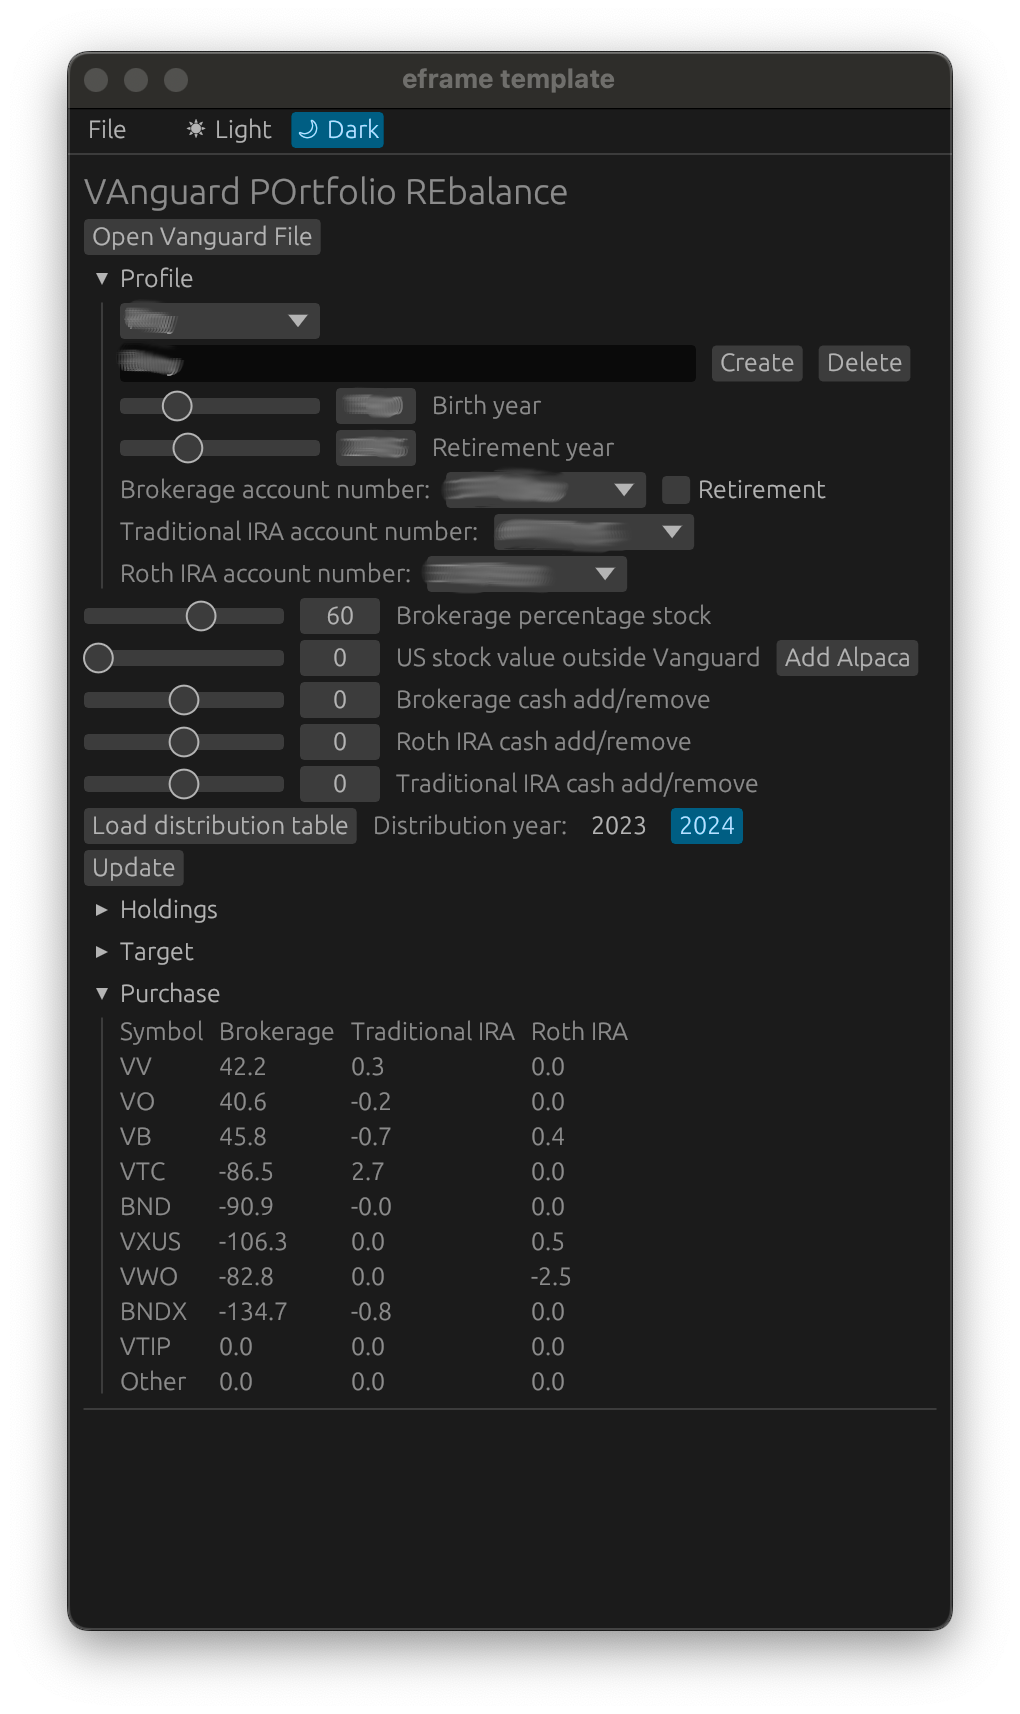
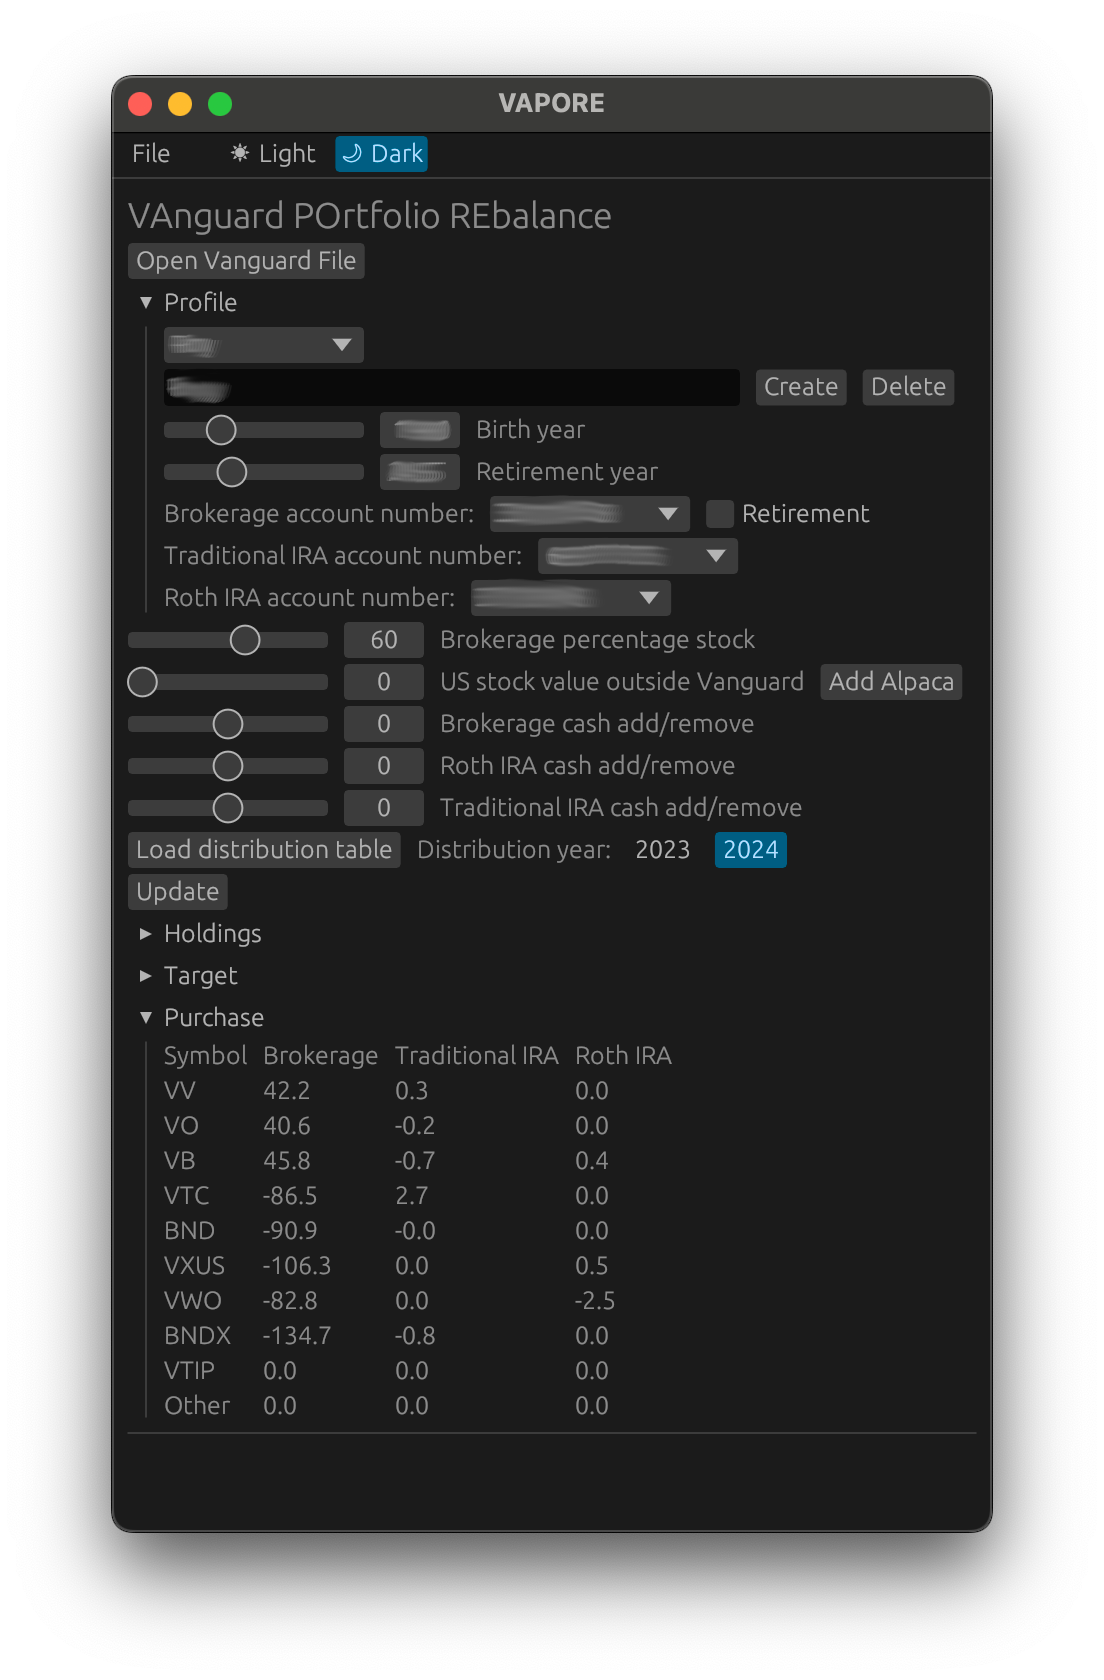
updated pic and size

Changed region(s): [[0.0304, 0.031, 0.9422, 0.9905]]

diff --git a/src/main.rs b/src/main.rs
@@ -11,8 +11,8 @@ async fn main() -> Result<()> {
 
     let native_options = eframe::NativeOptions {
         viewport: egui::ViewportBuilder::default()
-            .with_inner_size([400.0, 300.0])
-            .with_min_inner_size([300.0, 220.0])
+            .with_inner_size([440.0, 700.0])
+            .with_min_inner_size([440.0, 700.0])
             .with_icon(
                 // NOTE: Adding an icon is optional
                 eframe::icon_data::from_png_bytes(&include_bytes!("../assets/icon-256.png")[..])
